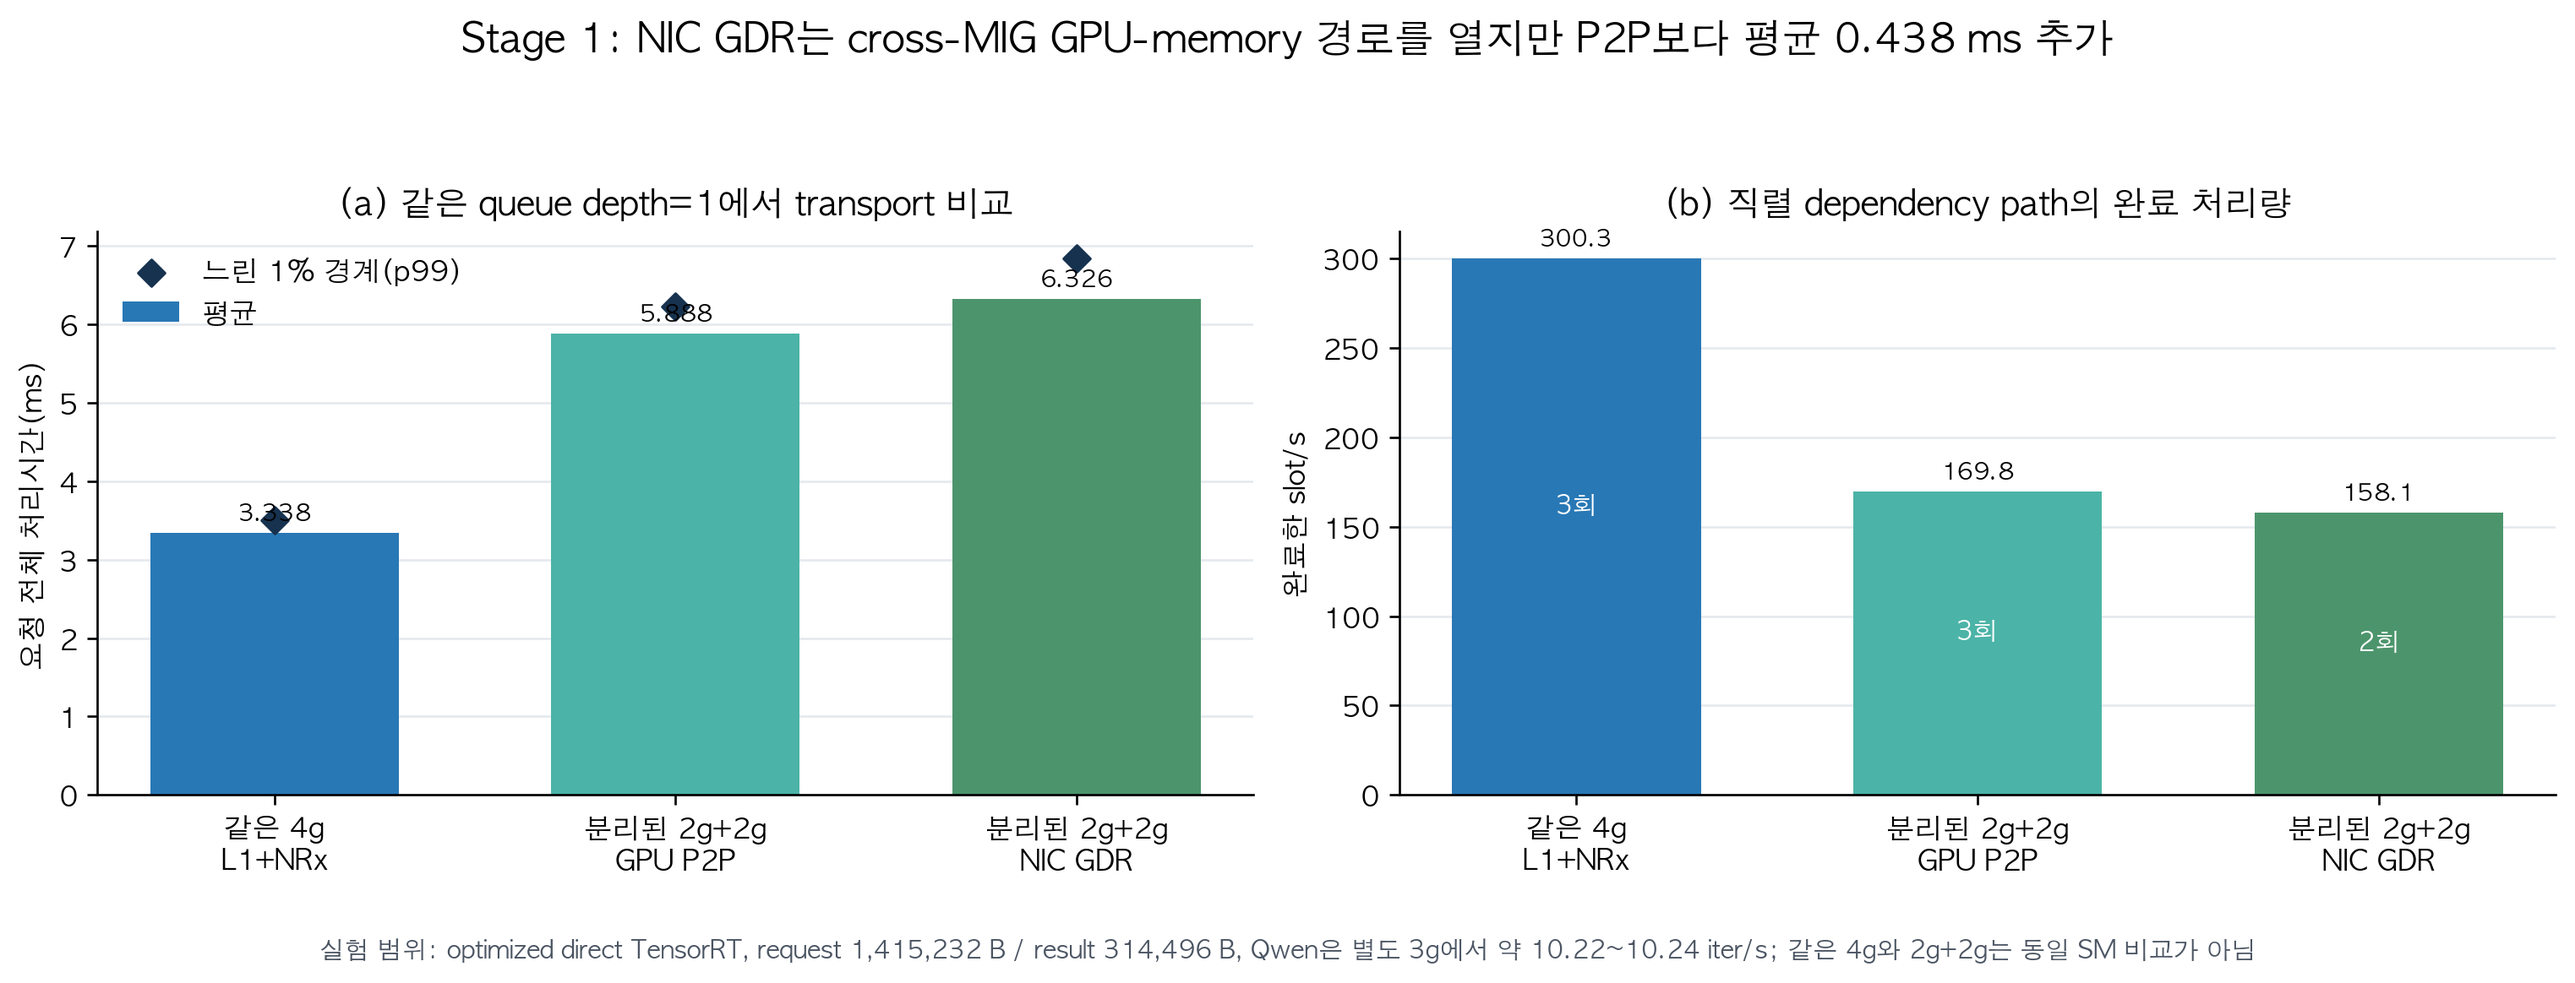
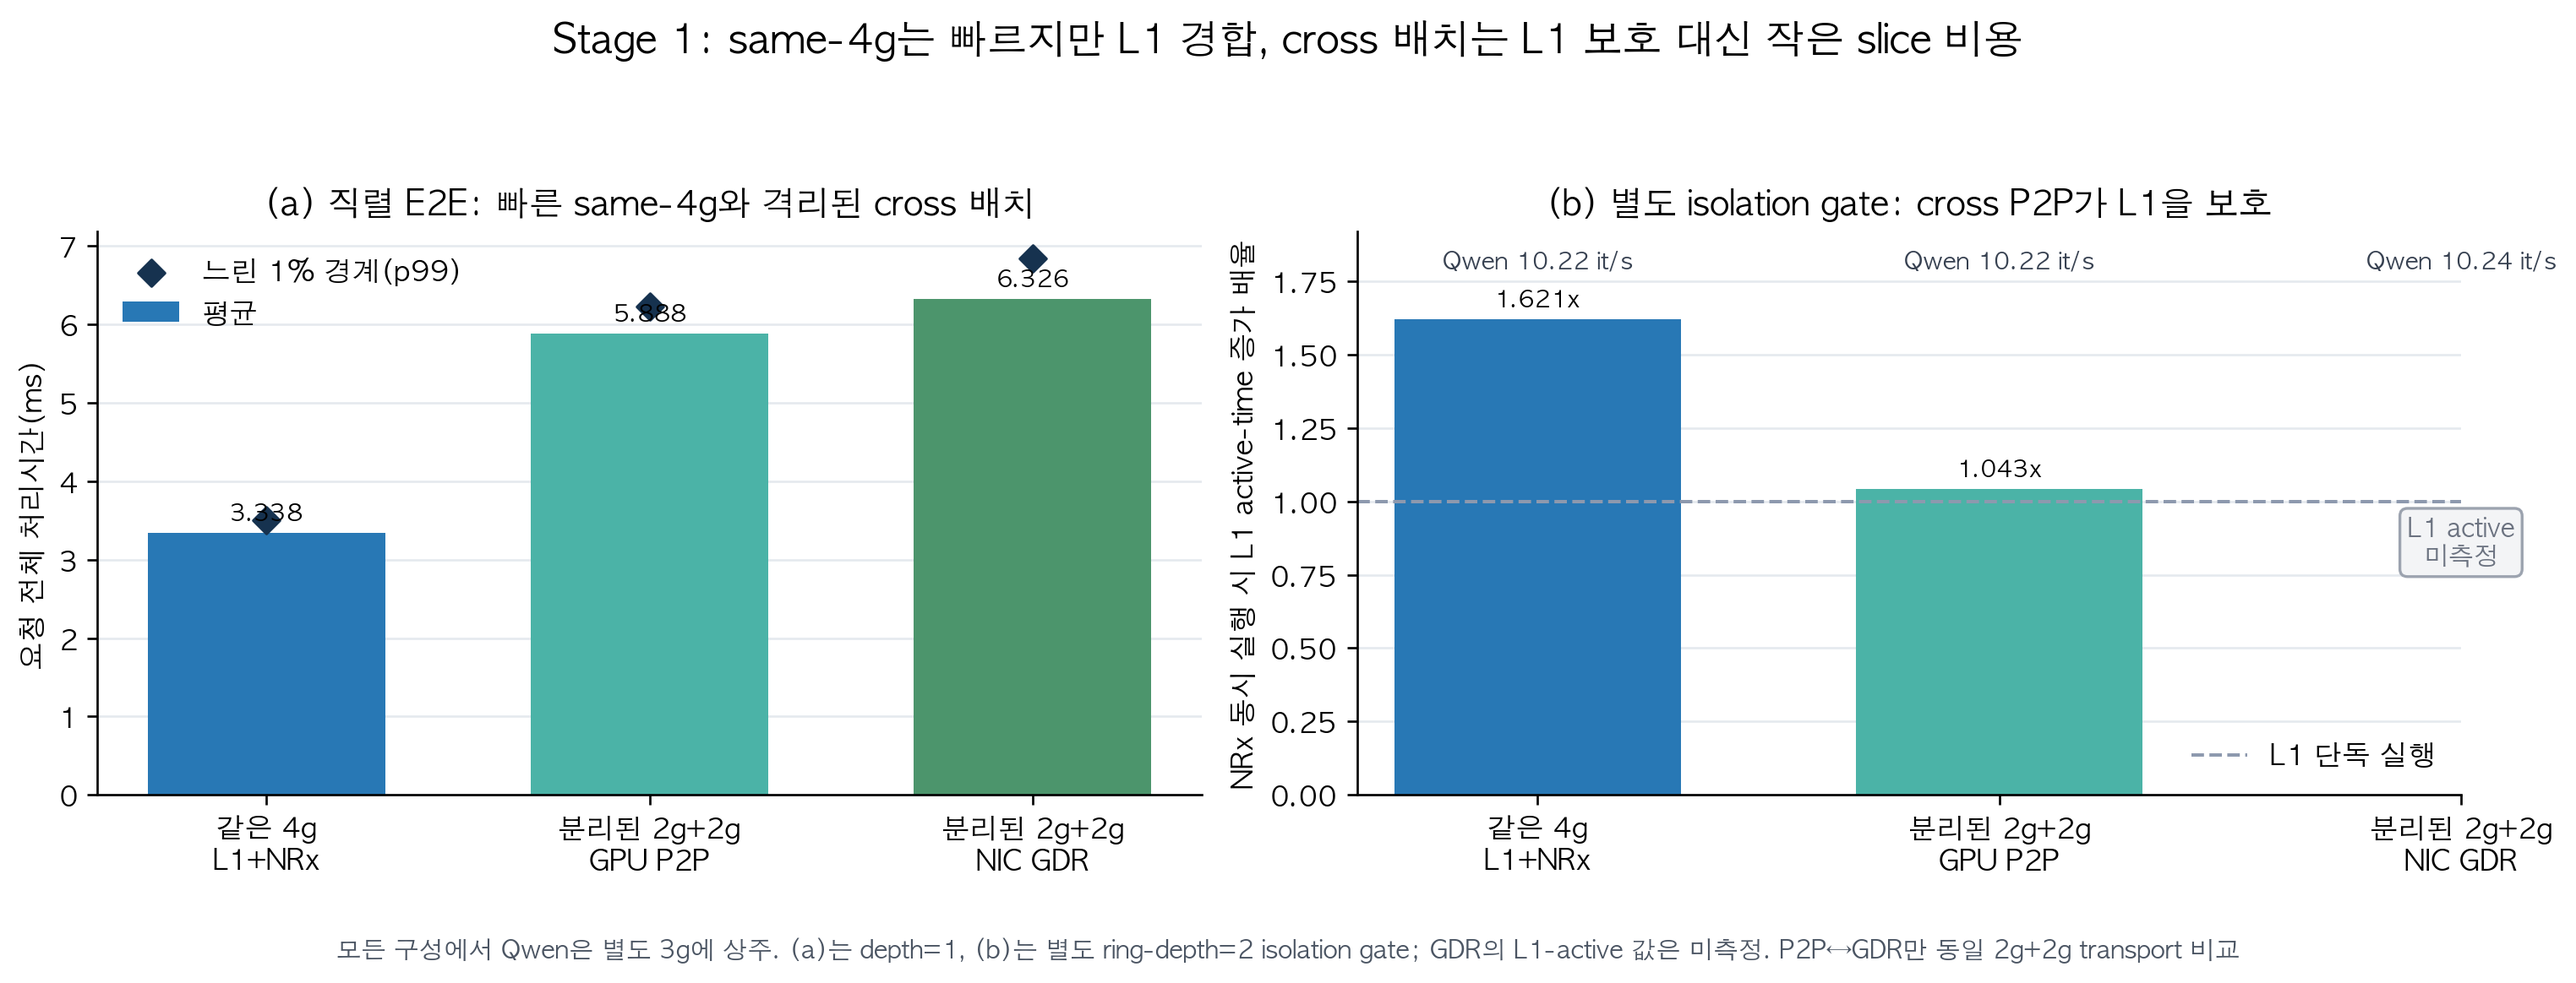
Refine walkthrough + stage1 equal-depth figure

diff --git a/tools/analysis/generate_research_walkthrough_figures.py b/tools/analysis/generate_research_walkthrough_figures.py
@@ -1703,10 +1703,11 @@ def figure_03_placement_and_transport():
 
 
 def figure_03e_stage1_equal_depth():
-    """Stage-1 controlled comparison with the same request/response depth."""
+    """Stage-1 placement/transport trade-off plus the separately measured L1 isolation effect."""
 
     rows = read_csv(PLACEMENT / "DEPTH1_TRANSPORT_COMPARISON.csv")
     by_name = {row["config"]: row for row in rows}
+    placement = _placement_rows()
     desired = [
         "MIG same depth 1",
         "Cross P2P depth 1",
@@ -1721,11 +1722,12 @@ def figure_03e_stage1_equal_depth():
     colors = [COLORS["blue"], COLORS["cyan"], COLORS["green"]]
     means = [float(by_name[name]["e2e_mean_ms"]) for name in desired]
     p99s = [float(by_name[name]["e2e_p99_ms"]) for name in desired]
-    throughput = [
-        float(by_name[name]["completion_throughput_slots_s"])
-        for name in desired
+    qwen = [float(by_name[name]["qwen_itps"]) for name in desired]
+    slowdown = [
+        float(placement["MIG same"]["l1_slowdown"]),
+        float(placement["Cross P2P"]["l1_slowdown"]),
+        np.nan,
     ]
-    trials = [int(by_name[name]["n_trials"]) for name in desired]
 
     x = np.arange(len(desired))
     fig, axes = plt.subplots(1, 2, figsize=(12.8, 4.7))
@@ -1741,38 +1743,51 @@ def figure_03e_stage1_equal_depth():
     )
     axes[0].set_xticks(x, labels)
     axes[0].set_ylabel("요청 전체 처리시간(ms)")
-    axes[0].set_title("(a) 같은 queue depth=1에서 transport 비교")
+    axes[0].set_title("(a) 직렬 E2E: 빠른 same-4g와 격리된 cross 배치")
     axes[0].legend(frameon=False)
     annotate_bars(axes[0], bars, "{:.3f}")
     style_axes(axes[0])
 
-    bars = axes[1].bar(x, throughput, color=colors, width=0.62)
+    bars = axes[1].bar(x, slowdown, color=colors, width=0.62)
     axes[1].set_xticks(x, labels)
-    axes[1].set_ylabel("완료한 slot/s")
-    axes[1].set_title("(b) 직렬 dependency path의 완료 처리량")
-    annotate_bars(axes[1], bars, "{:.1f}")
-    for index, count in enumerate(trials):
+    axes[1].axhline(1.0, color=COLORS["gray"], linestyle="--", linewidth=1.2, label="L1 단독 실행")
+    axes[1].set_ylim(0, 1.92)
+    axes[1].set_ylabel("NRx 동시 실행 시 L1 active-time 증가 배율")
+    axes[1].set_title("(b) 별도 isolation gate: cross P2P가 L1을 보호")
+    annotate_bars(axes[1], bars[:2], "{:.3f}x")
+    axes[1].text(
+        x[2],
+        0.86,
+        "L1 active\n미측정",
+        ha="center",
+        va="center",
+        fontsize=9,
+        color="#6b7280",
+        bbox={"boxstyle": "round,pad=0.30", "facecolor": "#f3f4f6", "edgecolor": "#9ca3af"},
+    )
+    for index, value in enumerate(qwen):
         axes[1].text(
             index,
-            throughput[index] * 0.54,
-            f"{count}회",
+            1.82,
+            f"Qwen {value:.2f} it/s",
             ha="center",
             va="center",
-            color="white",
-            fontsize=9,
+            color="#374151",
+            fontsize=8.5,
             fontweight="bold",
         )
+    axes[1].legend(frameon=False, loc="lower right")
     style_axes(axes[1])
 
     fig.suptitle(
-        "Stage 1: NIC GDR는 cross-MIG GPU-memory 경로를 열지만 P2P보다 평균 0.438 ms 추가",
+        "Stage 1: same-4g는 빠르지만 L1 경합, cross 배치는 L1 보호 대신 작은 slice 비용",
         fontsize=14,
         fontweight="bold",
     )
     fig.text(
         0.5,
         -0.005,
-        "실험 범위: optimized direct TensorRT, request 1,415,232 B / result 314,496 B, Qwen은 별도 3g에서 약 10.22~10.24 iter/s; 같은 4g와 2g+2g는 동일 SM 비교가 아님",
+        "모든 구성에서 Qwen은 별도 3g에 상주. (a)는 depth=1, (b)는 별도 ring-depth=2 isolation gate; GDR의 L1-active 값은 미측정. P2P↔GDR만 동일 2g+2g transport 비교",
         ha="center",
         fontsize=8.8,
         color="#4b5563",

diff --git a/tools/analysis/generate_research_walkthrough_figures_en.py b/tools/analysis/generate_research_walkthrough_figures_en.py
@@ -357,13 +357,17 @@ EN = {
     "같은 4g\nL1+NRx": "Same 4g\nL1+NRx",
     "분리된 2g+2g\nGPU P2P": "Separate 2g+2g\nGPU P2P",
     "분리된 2g+2g\nNIC GDR": "Separate 2g+2g\nNIC GDR",
-    "(a) 같은 queue depth=1에서 transport 비교": "(a) Transport at the same queue depth of one",
-    "완료한 slot/s": "Completed slots/s",
-    "(b) 직렬 dependency path의 완료 처리량": "(b) Completion rate of the serial dependency path",
-    "Stage 1: NIC GDR는 cross-MIG GPU-memory 경로를 열지만 P2P보다 평균 0.438 ms 추가":
-        "Stage 1: NIC GDR enables a cross-MIG GPU-memory path at 0.438 ms mean overhead vs. P2P",
-    "실험 범위: optimized direct TensorRT, request 1,415,232 B / result 314,496 B, Qwen은 별도 3g에서 약 10.22~10.24 iter/s; 같은 4g와 2g+2g는 동일 SM 비교가 아님":
-        "Scope: optimized direct TensorRT; 1,415,232-B request / 314,496-B result; Qwen runs on a separate 3g at 10.22-10.24 iter/s; same-4g and 2g+2g are not equal-SM configurations",
+    "(a) 직렬 E2E: 빠른 same-4g와 격리된 cross 배치":
+        "(a) Serial E2E: fast same-4g versus isolated cross placement",
+    "L1 단독 실행": "L1 alone",
+    "NRx 동시 실행 시 L1 active-time 증가 배율": "L1 active-time multiplier with concurrent NRx",
+    "(b) 별도 isolation gate: cross P2P가 L1을 보호":
+        "(b) Separate isolation gate: cross P2P protects L1",
+    "L1 active\n미측정": "L1 active\nnot measured",
+    "Stage 1: same-4g는 빠르지만 L1 경합, cross 배치는 L1 보호 대신 작은 slice 비용":
+        "Stage 1: same-4g is fast but contended; cross placement protects L1 at a slice-capacity cost",
+    "모든 구성에서 Qwen은 별도 3g에 상주. (a)는 depth=1, (b)는 별도 ring-depth=2 isolation gate; GDR의 L1-active 값은 미측정. P2P↔GDR만 동일 2g+2g transport 비교":
+        "Qwen runs on a separate 3g in every configuration. (a) uses depth 1; (b) is a separate ring-depth-2 isolation gate. GDR L1-active time was not measured. Only P2P vs. GDR is an equal 2g+2g transport comparison.",
     "순서대로 분배": "Round-robin",
     "예상 완료가 가장 빠른 곳": "Earliest predicted finish",
     "완료 예측 + tail guard": "Predicted finish + tail guard",

diff --git a/docs/current/RESEARCH_WALKTHROUGH_KO.md b/docs/current/RESEARCH_WALKTHROUGH_KO.md
@@ -841,41 +841,53 @@ Stage 4: 위 세 가지가 background AI와 multi-cell burst에서 동시에 되
 
 ### 15.1 Stage 1 — single-GPU cross-MIG GDR baseline
 
-**목적.** 첫 단계는 scheduler 성능이 아니라 data-path feasibility를 분리한다. 한 A100의 2g
-MIG에는 L1, 다른 2g MIG에는 NRx, 남은 3g에는 Qwen을 두었다. MIG 사이 CUDA P2P/IPC가
-허용되는 특수 경로와 ConnectX-6 Dx NIC loopback GDR를 같은 queue depth 1에서 비교했다.
-GDR 경로는 `1,415,232 B` request와 `314,496 B` result를 GPU MR 사이에서 옮기며 CPU DRAM
-payload staging을 사용하지 않았다.
+**목적.** Stage 1은 사실 두 질문을 분리한다. 먼저 `L1+NRx`가 같은 4g를 쓰는 빠른 local
+배치와, L1·NRx를 각각 2g로 나눈 cross 배치의 **속도 대 격리 trade-off**를 본다. 그 다음
+cross `2g+2g` 배치를 고정하고 GPU P2P와 ConnectX-6 Dx NIC-loopback GDR의 전송비용만
+비교한다. 세 구성 모두 남은 별도 3g MIG에서 Qwen을 동시에 실행했으며 처리량은
+`10.22–10.24 it/s`로 같았다.
 
-> **쉽게 말하면:** Stage 1은 “도로 하나가 실제로 열리는가?”를 확인한다. P2P와 GDR 중
-> 어느 연결이 같은 조건에서 얼마가 드는지는 비교하지만, 아직 여러 NRx를 스케줄하지 않는다.
-> 이 Stage의 성공 기준은 GDR가 P2P를 이기는 것이 아니라, MIG 격리를 유지하면서 full-size
-> tensor가 CPU DRAM bounce 없이 정확히 왕복하는 것이다.
+> **쉽게 말하면:** 같은 4g가 한 요청은 가장 빨리 끝냈다. 그러나 그 안에서는 L1과 NRx가
+> 경합해 L1 active time이 단독 실행의 `1.621×`가 됐다. Cross P2P는 chain 전체는 느려졌지만
+> L1 slowdown을 `1.043×`로 회복했다. GDR의 역할은 NRx 계산을 빠르게 만드는 것이 아니라,
+> P2P를 쓸 수 없는 격리 배치에도 GPU-memory 경로를 제공하는 것이다.
 
 Stage 1도 하나의 숫자가 아니라 세 개의 내부 gate로 구성된다.
 
 | 내부 gate | 반복 | 통제한 변수 | 사용 목적 |
 |---|---:|---|---|
 | Direct-GDR correctness | 2 repeats | optimized TensorRT contract와 실제 GPU MR request/result | CPU payload staging 없이 양방향 결과가 일치하는지 확인 |
-| Equal-depth transport | P2P 3회, GDR 2회 | P2P와 GDR 모두 queue depth 1 | transport 방식의 E2E 비용을 공정하게 비교 |
-| Ring-depth-2 isolation | P2P 3회 | L1 alone vs cross-P2P, 동일 2g L1 | NRx를 다른 compute queue로 분리했을 때 L1 active slowdown 측정 |
+| Equal-depth placement | same 4g 3회, P2P 3회, GDR 2회 | 모두 queue depth 1, Qwen은 별도 3g | local 속도와 cross 배치 비용을 함께 표시 |
+| Equal-depth transport | P2P 3회, GDR 2회 | 동일한 cross `2g+2g`; 전송 방식만 변경 | P2P와 GDR의 비용을 공정하게 비교 |
+| Ring-depth-2 isolation | same 4g 3회, cross-P2P 3회 | 각 배치의 L1-alone baseline으로 정규화 | NRx를 다른 compute queue로 분리했을 때 L1 보호 효과 측정 |
 
 ![Stage 1의 동일 queue-depth P2P/GDR 비교](figures/03e_stage1_equal_depth.png)
 
-| Cross-MIG transport | E2E mean | E2E p99 | slot throughput | Qwen | transport mean |
+| 배치와 transport | E2E mean | E2E p99 | 직렬 완료율 | Qwen | 직접 transport |
 |---|---:|---:|---:|---:|---:|
+| Same 4g: L1+NRx | **3.338 ms** | **3.501 ms** | **300.250 slot/s** | 10.22 it/s | 없음 |
 | GPU P2P | **5.888 ms** | 6.224 ms | 169.804 slot/s | 10.22 it/s | 76.547 µs |
 | NIC GDR loopback | 6.326 ms | 6.846 ms | 158.095 slot/s | 10.24 it/s | E2E 차이에 포함 |
 
-GDR의 평균 E2E 비용은 P2P보다 `0.438 ms`, 약 `7.4%` 컸다. 그러나 pipeline은 여전히 6 ms
-수준이고 이후 overload queue tail은 수백–수천 ms까지 증가한다. 따라서 이 단계의 결론은
-“NIC가 P2P보다 빠르다”가 아니다. **CPU bounce 없이 격리된 endpoint를 연결할 수 있고,
-transport보다 NRx service time과 queue가 더 큰 다음 병목**이라는 것이다.
+이 표는 두 가지로 나눠 읽어야 한다.
+
+1. **Same 4g 대 cross 2g+2g는 transport만의 비교가 아니다.** Same 4g에서는 두 stage가
+   큰 4g를 공유하지만 cross에서는 L1과 NRx가 각각 2g로 제한된다. Cross P2P의 직접 전송은
+   평균 `76.547 µs`뿐인데 E2E는 `2.550 ms` 증가했다. 주원인은 NIC/P2P가 아니라 작은 slice에서
+   L1과 특히 NRx compute가 느려진 것이다.
+2. **P2P 대 GDR만 공정한 transport 비교다.** 동일한 cross `2g+2g`, depth 1에서 GDR는
+   P2P보다 평균 `0.438 ms`, 약 `7.4%` 비쌌다. 그래도 CPU DRAM bounce 없이 full-size request
+   `1,415,232 B`와 result `314,496 B`를 정확히 왕복했다.
+
+오른쪽의 L1 slowdown은 별도 ring-depth-2 isolation gate 결과다. Same 4g의 `1.621×`와 Cross
+P2P의 `1.043×`는 **same partition이 raw E2E는 빠르지만 L1 보호가 약하고, cross placement는
+L1을 보호하지만 작은 NRx slice 때문에 전체 chain이 느려지는 trade-off**를 보여준다. GDR
+run에는 대응 L1-active 값이 없어 그 칸을 `미측정`으로 남긴다.
 
 - 증명함: 한 물리 GPU의 서로 다른 MIG/process 사이 full-size GPU-memory GDR 경로와 비용.
 - 증명하지 않음: 여러 NRx의 capacity 합산, queue-aware routing, actual-radio correctness.
-- 주의: main ring-depth-2 P2P run에서는 L1 active slowdown `1.043×`를 측정했지만, 해당 GDR
-  run에는 대응 L1-active 값이 없다. GDR도 동일 slowdown이라고 추정하지 않는다.
+- 주의: depth 1의 `slot/s`는 한 요청씩 직렬 처리한 E2E의 역수에 가깝다. 여러 endpoint의
+  concurrent pool capacity는 Stage 2에서 별도로 평가한다.
 
 ### 15.2 Stage 2 — fixed-MIG NRx 3-replica GDR pool
 

diff --git a/docs/current/RESEARCH_WALKTHROUGH_EN.md b/docs/current/RESEARCH_WALKTHROUGH_EN.md
@@ -823,42 +823,53 @@ routing, and radio utility.
 
 ### 15.1 Stage 1 — single-GPU cross-MIG GDR baseline
 
-**Purpose.** The first stage isolates data-path feasibility from scheduler behavior. L1 occupies one
-2g MIG, NRx occupies another 2g MIG, and Qwen occupies the remaining 3g on one A100. We compare an
-available CUDA P2P/IPC path with ConnectX-6 Dx NIC-loopback GDR at the same queue depth of one. The
-GDR path transfers a `1,415,232 B` request and a `314,496 B` result between GPU MRs without CPU-DRAM
-payload staging.
+**Purpose.** Stage 1 separates two questions. It first contrasts a fast local placement, where L1
+and NRx share one 4g, with cross placement, where L1 and NRx each receive a 2g, exposing the
+**speed-versus-isolation trade-off**. It then holds cross `2g+2g` fixed and changes only the transport
+between GPU P2P and ConnectX-6 Dx NIC-loopback GDR. Every configuration concurrently ran Qwen in the
+remaining separate 3g MIG at `10.22–10.24 it/s`.
 
-> **In plain language:** Stage 1 asks whether one road actually works. It compares P2P and GDR under
-> equal conditions, but it does not yet schedule several NRx workers. Success does not require GDR
-> to beat P2P; it requires correct full-size tensor exchange across retained isolation without a
-> CPU-DRAM bounce.
+> **In plain language:** Same-4g completed one request fastest, but L1 and NRx contended inside it,
+> raising L1 active time to `1.621×` its alone baseline. Cross P2P made the whole chain slower but
+> restored L1 slowdown to `1.043×`. GDR is not intended to accelerate NRx compute; it provides a
+> GPU-memory path to isolated placements where P2P cannot be used.
 
 Stage 1 itself consists of three internal gates rather than one number.
 
 | Internal gate | Repetitions | Controlled variable | Purpose |
 |---|---:|---|---|
 | Direct-GDR correctness | 2 repeats | Optimized TensorRT contract and real GPU-MR request/result | Verify bidirectional results without CPU payload staging |
-| Equal-depth transport | 3 P2P, 2 GDR | Queue depth one for both P2P and GDR | Compare E2E transport cost fairly |
-| Ring-depth-2 isolation | 3 P2P | L1-alone versus cross-P2P on the same 2g L1 | Measure L1 active slowdown after moving NRx to another compute queue |
+| Equal-depth placement | 3 same-4g, 3 P2P, 2 GDR | Queue depth one for all; Qwen on a separate 3g | Display local speed and cross-placement cost |
+| Equal-depth transport | 3 P2P, 2 GDR | Identical cross `2g+2g`; transport only changes | Compare P2P and GDR cost fairly |
+| Ring-depth-2 isolation | 3 same-4g, 3 cross-P2P | Normalize each placement to its own L1-alone baseline | Measure L1 protection after separating the compute queues |
 
 ![Stage 1 P2P/GDR comparison at the same queue depth](figures_en/03e_stage1_equal_depth.png)
 
-| Cross-MIG transport | E2E mean | E2E p99 | Slot throughput | Qwen | Transport mean |
+| Placement and transport | E2E mean | E2E p99 | Serial completion rate | Qwen | Direct transport |
 |---|---:|---:|---:|---:|---:|
+| Same 4g: L1+NRx | **3.338 ms** | **3.501 ms** | **300.250 slot/s** | 10.22 it/s | None |
 | GPU P2P | **5.888 ms** | 6.224 ms | 169.804 slot/s | 10.22 it/s | 76.547 µs |
 | NIC GDR loopback | 6.326 ms | 6.846 ms | 158.095 slot/s | 10.24 it/s | Included in E2E difference |
 
-GDR added `0.438 ms`, about `7.4%`, to mean E2E latency relative to P2P. The pipeline nevertheless
-remained near 6 ms, while overload tails in later experiments grew to hundreds or thousands of
-milliseconds. The conclusion is not that NIC GDR is faster than P2P. It is that **isolated endpoints
-can communicate without a CPU bounce, and the next dominant problem is NRx service time and
-queueing rather than transport alone.**
+This table must be read as two comparisons.
+
+1. **Same-4g versus cross-2g+2g is not a transport-only comparison.** Same-4g lets both stages share
+   the larger 4g, whereas cross placement caps each stage at 2g. Direct P2P transport averaged only
+   `76.547 µs`, while E2E increased by `2.550 ms`; smaller-slice L1 and especially NRx compute caused
+   most of the loss.
+2. **Only P2P versus GDR is a controlled transport comparison.** At identical cross `2g+2g` and depth
+   one, GDR cost `0.438 ms` or `7.4%` more than P2P, while correctly exchanging the full-size
+   `1,415,232 B` request and `314,496 B` result without a CPU-DRAM bounce.
+
+The right panel uses the separate ring-depth-2 isolation gate. Same-4g at `1.621×` versus cross P2P
+at `1.043×` shows the real trade-off: **same partition wins raw E2E but weakens L1 protection; cross
+placement protects L1 but loses chain speed to the smaller NRx slice.** No corresponding GDR
+L1-active measurement exists, so the figure marks it as not measured.
 
 - Proves: full-size GPU-memory GDR and its cost across separate MIGs/processes on one physical GPU.
 - Does not prove: aggregate multi-NRx capacity, queue-aware routing, or actual-radio correctness.
-- Caveat: the main ring-depth-2 P2P run measured L1 active slowdown of `1.043×`; no corresponding
-  L1-active value exists for that GDR run, so the same slowdown is not inferred.
+- Caveat: at depth one, `slot/s` is approximately the inverse of serial E2E latency. Concurrent
+  multi-endpoint pool capacity is evaluated separately in Stage 2.
 
 ### 15.2 Stage 2 — fixed-MIG three-replica GDR pool
 
